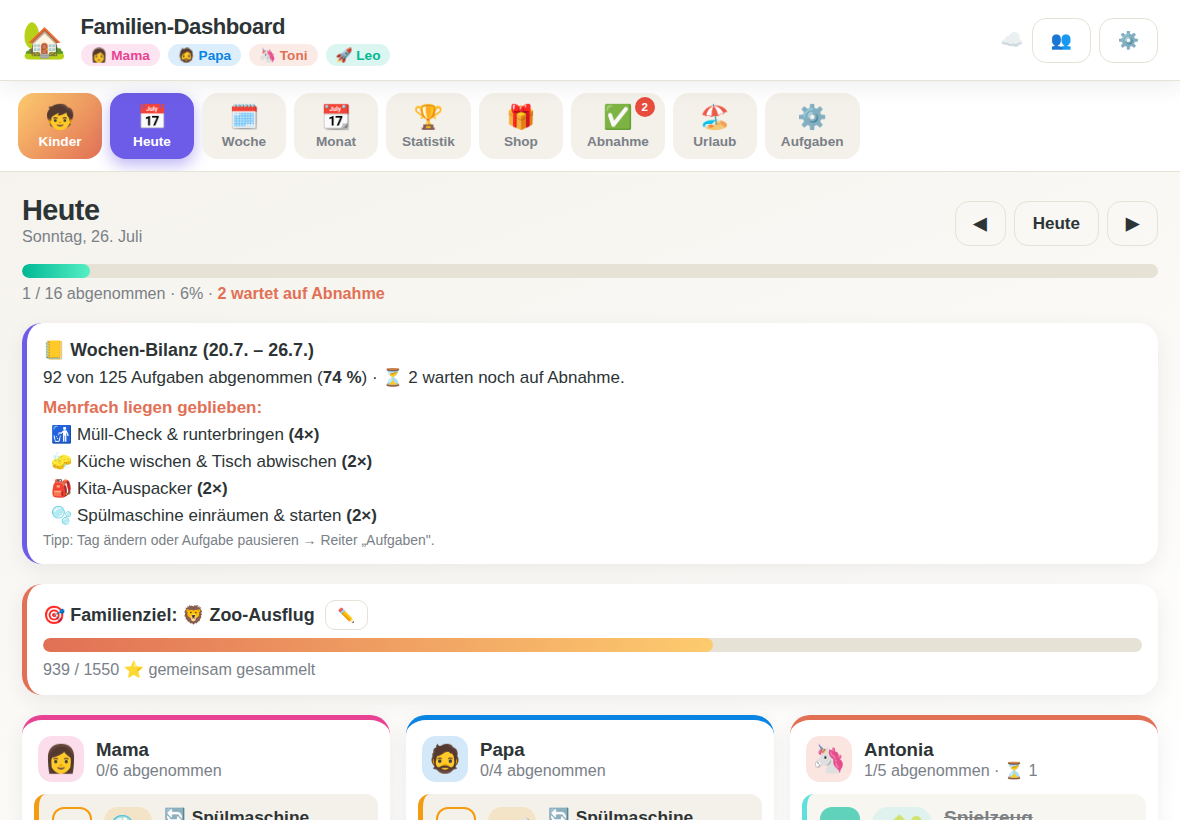
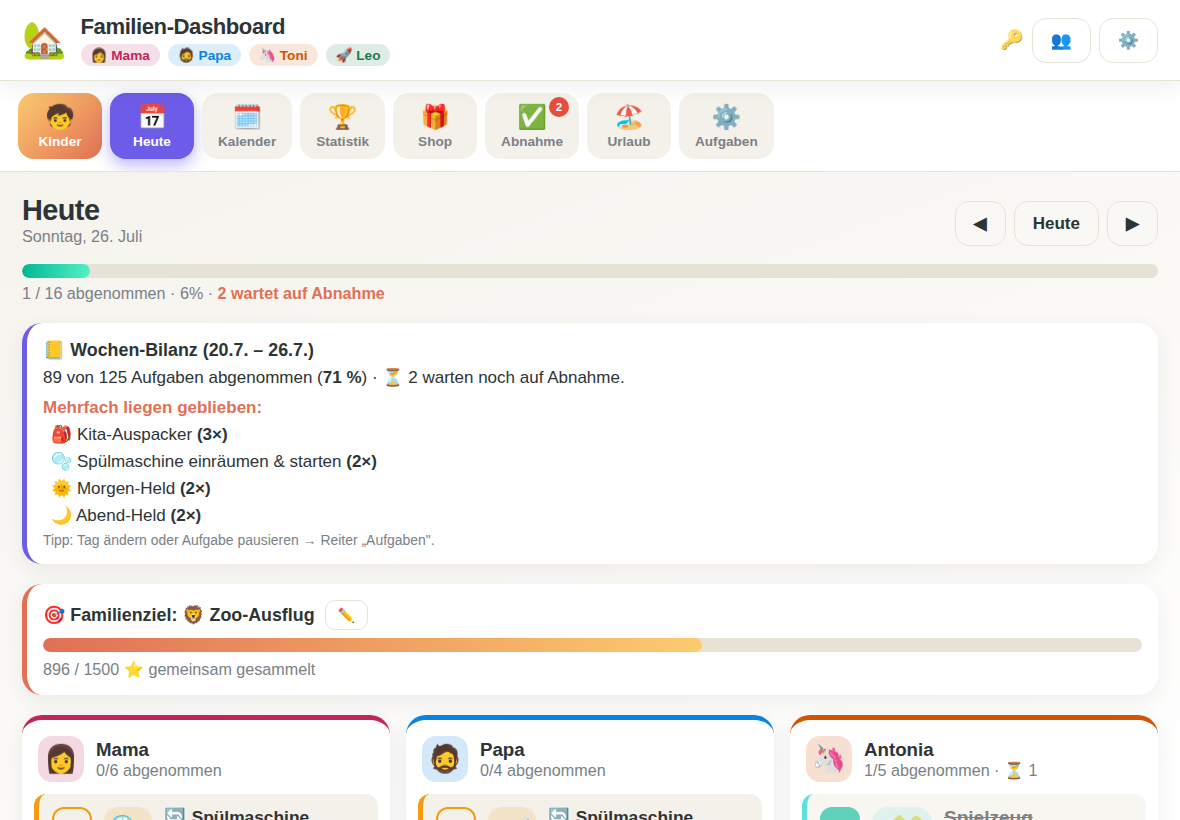
Screenshots neu aufgenommen + Aufnahme-Skript ergänzt
Die Bilder zeigten noch die alte Navigation mit "Woche" und "Monat"
sowie die alten Personenfarben. Neu aufgenommen mit dem aktuellen Stand
(Reiter "Kalender", entzerrte Farben).

Das Skript, das die vorherigen Aufnahmen erzeugt hat, war nicht im Repo
und musste nachgebaut werden – daher liegt es jetzt unter
docs/make-screenshots.js. Es baut den Datenstand über die normale
Store-API auf, ist deterministisch geseedet und dokumentiert die zwei
Fallen, über die ich dabei gestolpert bin: gemeinsame Aufgaben tauchen
bei beiden Kindern auf (dieselbe Instanz zweimal anzufassen setzt die
Abnahme zurück) und die Eltern-Sperre braucht eine kurze Wartezeit,
sonst landet die Einblend-Animation halbtransparent im Bild.

Claude-Session: https://claude.ai/code/session_014ALHiHUKkh53qjhxh1ZErb

diff --git a/docs/make-screenshots.js b/docs/make-screenshots.js
@@ -1,0 +1,144 @@
+/* =========================================================================
+   Screenshots für die README neu aufnehmen
+
+   Voraussetzungen (die App selbst braucht weiterhin keinen Build-Schritt –
+   das hier ist reines Werkzeug):
+     npm i -g playwright        # oder: npx playwright
+     python3 -m http.server 8123    # im Wurzelverzeichnis des Projekts
+
+   Aufruf:
+     node docs/make-screenshots.js
+
+   Es wird ein realistischer, aber vollständig erzeugter Datenstand in einem
+   frischen Browser-Profil aufgebaut (laufende Woche mit Lücken, Familienziel
+   gut zur Hälfte, heute eine Abnahme erledigt und zwei offen). Der Seed ist
+   fest verdrahtet, die Aufnahmen sind damit reproduzierbar.
+
+   Umgebungsvariablen: URL, OUT, CHROME (Pfad zur Chromium-Binärdatei).
+   ========================================================================= */
+const path = require('path');
+const { chromium } = require('playwright');
+
+const URL = process.env.URL || 'http://localhost:8123/index.html';
+const OUT = process.env.OUT || path.join(__dirname, 'screenshots');
+const CHROME = process.env.CHROME || '/opt/pw-browsers/chromium-1194/chrome-linux/chrome';
+
+// Läuft IM BROWSER: baut den Datenstand über die normale Store-API auf.
+function seedFn() {
+  const S = CHORES.store, D = CHORES.date, today = D.today();
+  let r = 987654321;
+  const rand = () => ((r = (r * 1103515245 + 12345) & 0x7fffffff) / 0x7fffffff);
+  const LOB = ['Ganz allein geschafft!', 'Richtig sorgfältig gemacht.', 'Danke, das hat uns geholfen!', ''];
+
+  // Die sechs zurückliegenden Tage dieser Woche, ~21 % bleiben liegen
+  for (let k = 6; k >= 1; k--) {
+    const iso = D.addDays(today, -k);
+    S.instancesFor(iso).forEach(i => {
+      if (rand() > 0.79) return;
+      S.submit(i.task.id, iso, i.member);
+      const inst = S.instance(i.task, iso, i.member);
+      S.approve(i.task.id, iso, {
+        by: inst.rater, stars: rand() < 0.55 ? 5 : 4,
+        comment: LOB[Math.floor(rand() * LOB.length)], kind: 'praise', member: i.member,
+      });
+    });
+  }
+
+  // Heute: eine Aufgabe abgenommen, je eine Abnahme offen pro Kind.
+  // Gemeinsame Aufgaben (z. B. „Spielzeug aufräumen") erscheinen bei beiden
+  // Kindern – dieselbe Instanz zweimal anzufassen würde die Abnahme wieder
+  // zurücksetzen, daher überschneidungsfrei auswählen.
+  const used = new Set();
+  const pick = id => S.instancesFor(today)
+    .find(i => i.assignees.includes(id) && !used.has(i.key) && (used.add(i.key), true));
+  const done = pick('toni'), p1 = pick('toni'), p2 = pick('leo');
+  S.submit(done.task.id, today, done.member);
+  S.approve(done.task.id, today, { by: 'mama', stars: 5, comment: 'Ganz allein geschafft!', kind: 'praise', member: done.member });
+  [p1, p2].forEach(i => i && S.submit(i.task.id, today, i.member));
+
+  // Zwei Sticker gekauft und ein Wunsch offen, damit der Shop belebt wirkt
+  const sk = S.stickers();
+  S.buy('toni', 'sticker', sk[0].id);
+  S.buy('toni', 'sticker', sk[2].id);
+  const rw = S.rewards().filter(x => x.group === 'child' || x.group === 'all');
+  if (rw.length) S.buy('toni', 'reward', rw[0].id);
+  S.save();
+}
+
+const wait = (p, sel) => p.waitForSelector(sel, { timeout: 8000 });
+
+(async () => {
+  const browser = await chromium.launch({ executablePath: CHROME, args: ['--no-sandbox'] });
+  const ctx = await browser.newContext({ viewport: { width: 1180, height: 820 } });
+  const page = await ctx.newPage();
+  const errs = [];
+  page.on('pageerror', e => errs.push(e.message));
+
+  await page.goto(URL); await wait(page, '.start-people');
+  await page.evaluate(seedFn);
+
+  // Familienziel: Start zurückdatieren, Zielmarke auf ~60 % Füllung runden
+  await page.evaluate(() => {
+    const S = CHORES.store, D = CHORES.date;
+    S.setGoal({ title: 'Zoo-Ausflug', emoji: '🦁', target: 1 });
+    const st = JSON.parse(localStorage.getItem('familien-dashboard-v1'));
+    st.goal.startAt = D.addDays(D.today(), -6);
+    localStorage.setItem('familien-dashboard-v1', JSON.stringify(st));
+  });
+  await page.reload(); await wait(page, '.start-people');
+  await page.evaluate(() => {
+    const st = JSON.parse(localStorage.getItem('familien-dashboard-v1'));
+    st.goal.target = Math.round(CHORES.store.goalProgress() / 0.6 / 50) * 50;
+    localStorage.setItem('familien-dashboard-v1', JSON.stringify(st));
+  });
+  await page.reload(); await wait(page, '.start-people');
+
+  const shot = n => page.screenshot({ path: path.join(OUT, n + '.png') });
+
+  await shot('01-start');
+
+  // Eltern-Sperre – die Einblend-Animation (fade .15s) erst auslaufen lassen
+  await page.click('.start-parent'); await wait(page, '.gate-card');
+  await page.waitForTimeout(400);
+  await shot('05-eltern-sperre');
+
+  // Rechenaufgabe lösen -> Eltern-Ansicht
+  const q = await page.textContent('.gate-q');
+  const [, a, b] = q.match(/(\d+)\s*\+\s*(\d+)/);
+  for (const c of String(+a + +b)) await page.click(`.gate-key:text-is("${c}")`);
+  await page.click('.gate-key.ok'); await wait(page, '#nav .nav-btn');
+  await shot('06-heute');
+
+  await page.click('.nav-btn[data-view="ratings"]'); await wait(page, '.rateitem');
+  await shot('07-abnahme');
+
+  // Kinder-Modus (Toni)
+  await page.click('#user-btn'); await wait(page, '.start-person');
+  await page.click('.start-people .start-person:first-child'); await wait(page, '.kid-board');
+  await page.waitForTimeout(900); // Glas-Füllung zu Ende animieren
+  await shot('02-kinder-board');
+
+  await page.click('.kid-col.todo .kid-card'); await wait(page, '.kid-focus');
+  await page.click('.kid-timer-btn'); await page.waitForTimeout(1400);
+  await shot('03-fokus-sanduhr');
+  await page.click('.kid-focus-back');
+
+  // Wünsche & Sticker: so weit scrollen, dass beide Bereiche im Bild sind
+  await wait(page, '.kid-stickers');
+  await page.click('.kid-stickers'); await wait(page, '.kid-stick');
+  await page.evaluate(() => {
+    document.querySelector('.kid-shop-scroll').scrollTop =
+      document.querySelector('.kid-stick-grid').offsetTop - 240;
+  });
+  await page.waitForTimeout(300);
+  await shot('04-wuensche-sticker');
+
+  const info = await page.evaluate(() => ({
+    ziel: `${CHORES.store.goalProgress()} / ${CHORES.store.goal().target}`,
+    sterneToni: CHORES.store.balance('toni'),
+    offeneAbnahmen: CHORES.store.pendingRatings().length,
+  }));
+  console.log('Datenstand:', info);
+  if (errs.length) { console.error('Fehler auf der Seite:', errs); process.exitCode = 1; }
+  await browser.close();
+})().catch(e => { console.error('Fehlgeschlagen:', e); process.exit(1); });
